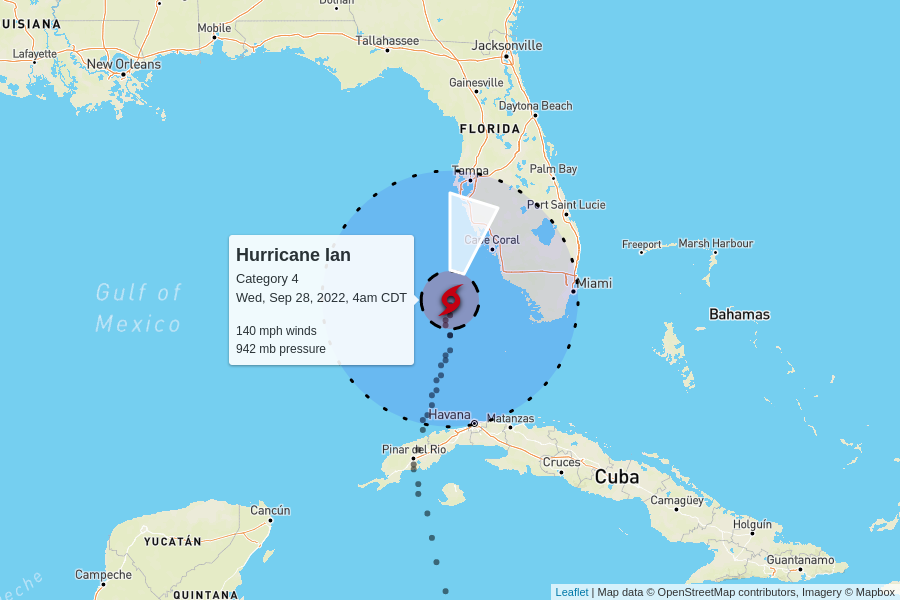
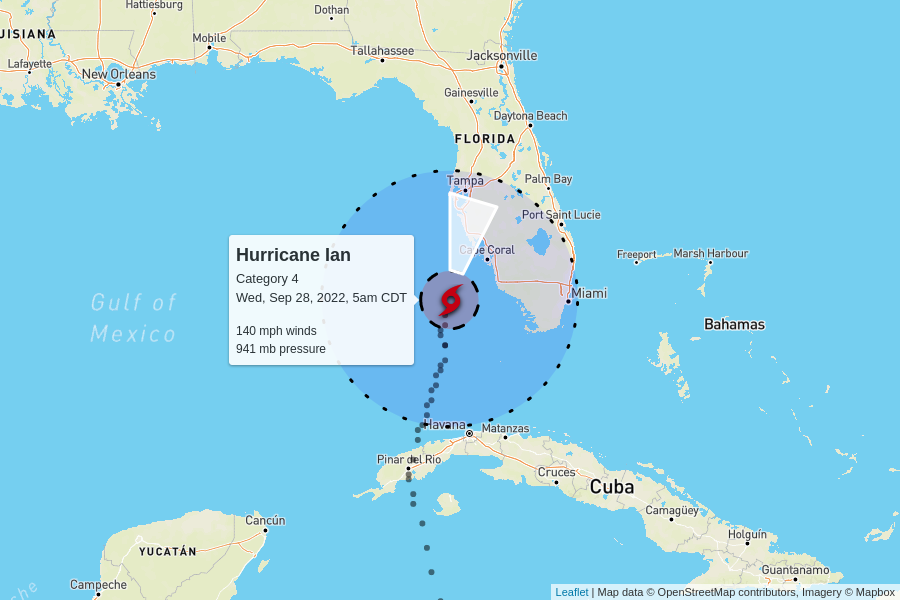
automatic update

diff --git a/docs/index.html b/docs/index.html
@@ -100,7 +100,7 @@
         <td colspan="6" class="storm category-4" >
           <h2>
             Hurricane Ian - Category 4
-            <p class="updated">last updated <span data-time>2022-09-28T09:00:00.000Z</span></p>
+            <p class="updated">last updated <span data-time>2022-09-28T10:00:00.000Z</span></p>
           </h2>
         </td>
       </tr>
@@ -116,7 +116,7 @@
       <tr>
         <td class="spacer"></td>
         <td>140 mph</td>
-        <td>942 mb</td>
+        <td>941 mb</td>
         <td>
           10 mph to the north-northeast
           <br/>
